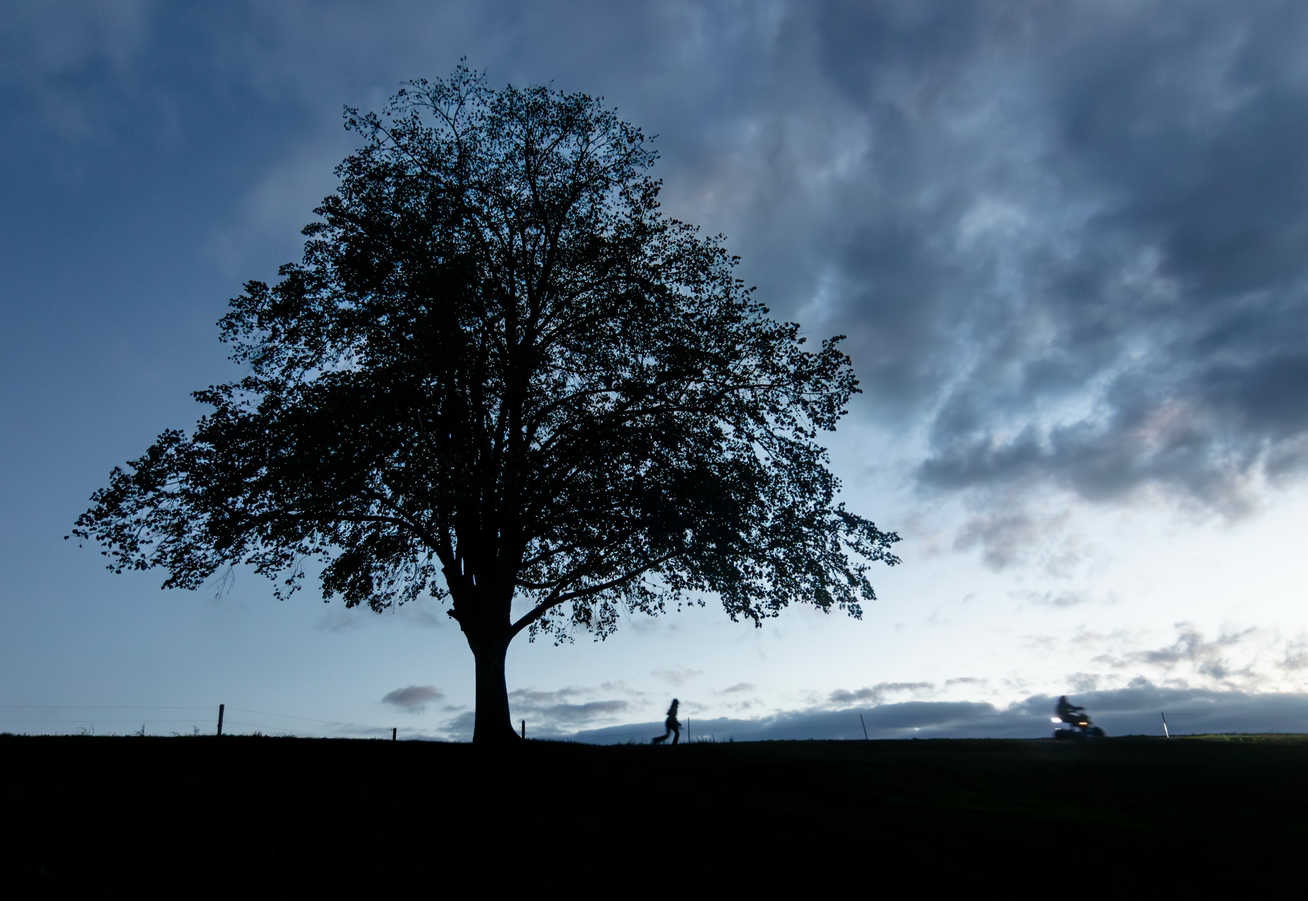
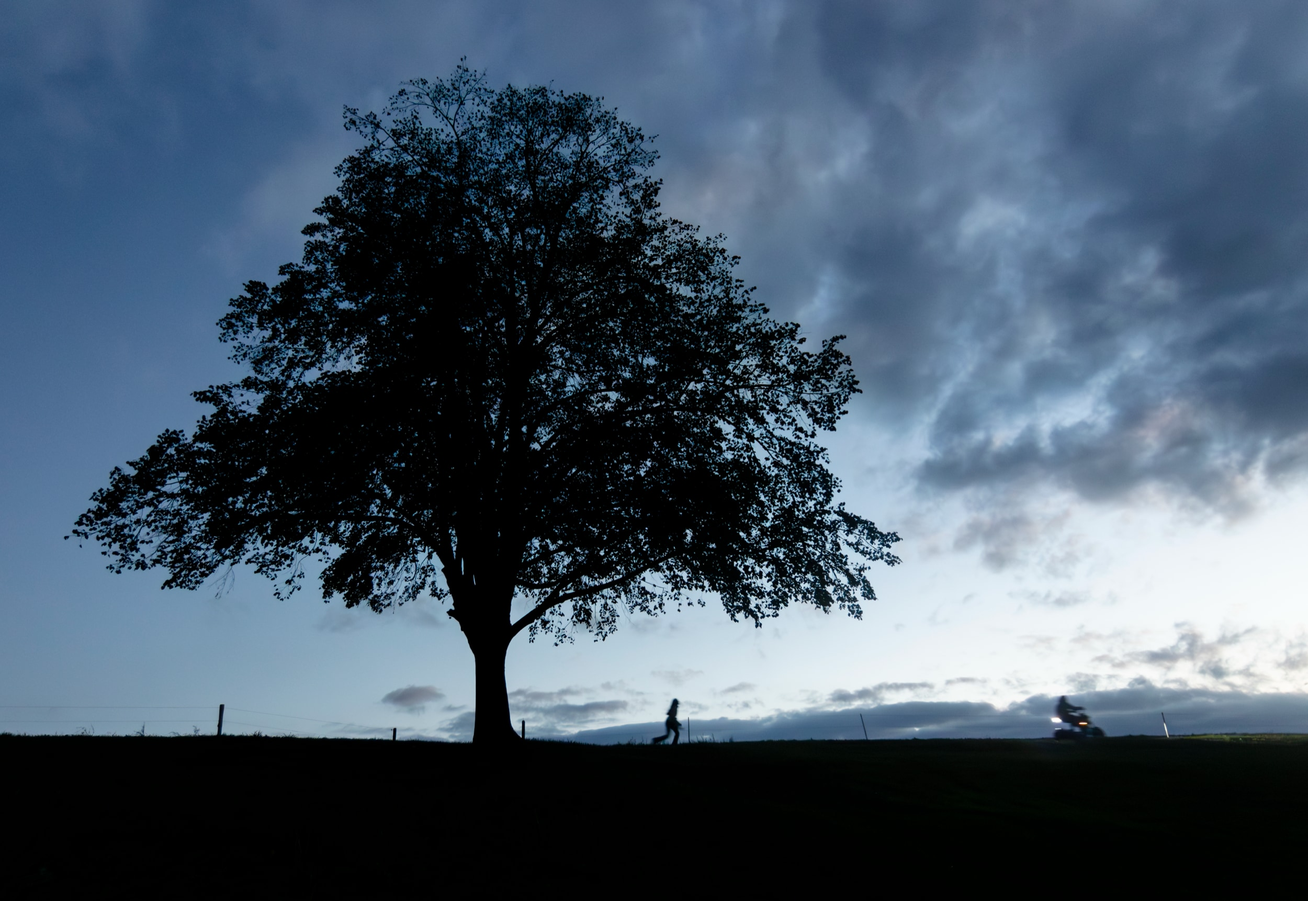
Update photo blog content and header navigation

Changed region(s): [[0.0624, 0.0923, 0.6552, 0.6771]]

diff --git a/src/components/blog/articles.ts b/src/components/blog/articles.ts
@@ -1,10 +1,14 @@
 import records from '../../data/blog.json';
 export interface Photo { image: string; captured: string; caption: string; alt: string }
-export interface Article { slug: string; title: string; photos: Photo[] }
+export interface Article { slug: string; title: string; photos: Photo[]; date?: string; cover?: string; manualOrder?: boolean }
 export const articles = (records as Article[]).filter(a => a.photos.length).map(a => ({
-  ...a, photos: [...a.photos].sort((a,b) => a.captured.localeCompare(b.captured) || a.image.localeCompare(b.image))
-})).sort((a,b) => b.photos[0].captured.localeCompare(a.photos[0].captured) || a.slug.localeCompare(b.slug));
-export const day = (a: Article) => a.photos[0].captured.slice(0,10);
+  ...a, photos: a.manualOrder ? [...a.photos] : [...a.photos].sort((a,b) => a.captured.localeCompare(b.captured) || a.image.localeCompare(b.image))
+})).sort((a,b) => (b.date ?? b.photos[0].captured).localeCompare(a.date ?? a.photos[0].captured) || a.slug.localeCompare(b.slug));
+export const day = (a: Article) => (a.date ?? a.photos[0].captured).slice(0,10);
+export const overviewPhotos = (a: Article) => {
+  const cover = a.photos.find(p => p.image === a.cover);
+  return (cover ? [cover, ...a.photos.filter(p => p.image !== cover.image)] : a.photos).slice(0, 3);
+};
 export const displayDay = (a: Article) => new Date(day(a) + 'T12:00:00Z').toLocaleDateString('de-CH', {day:'numeric',month:'long',year:'numeric',timeZone:'UTC'});
 export function parts(text: string) {
   const result: {text: string; href?: string}[] = [];
